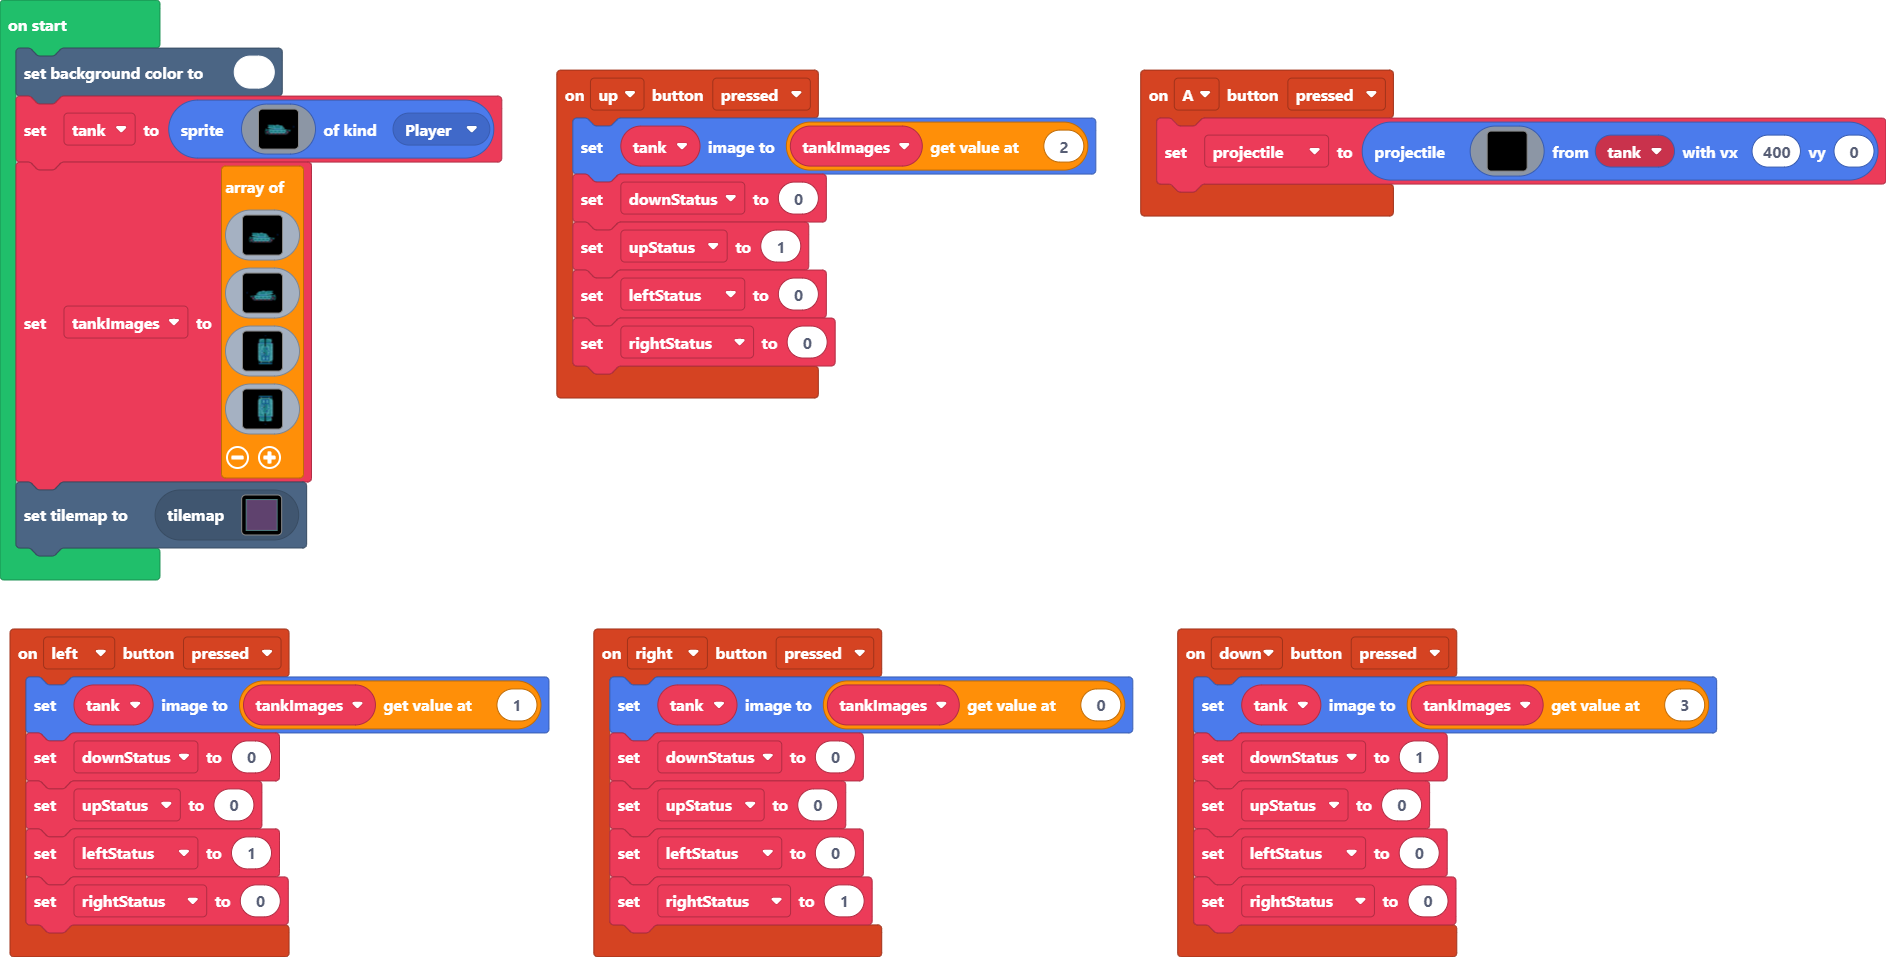
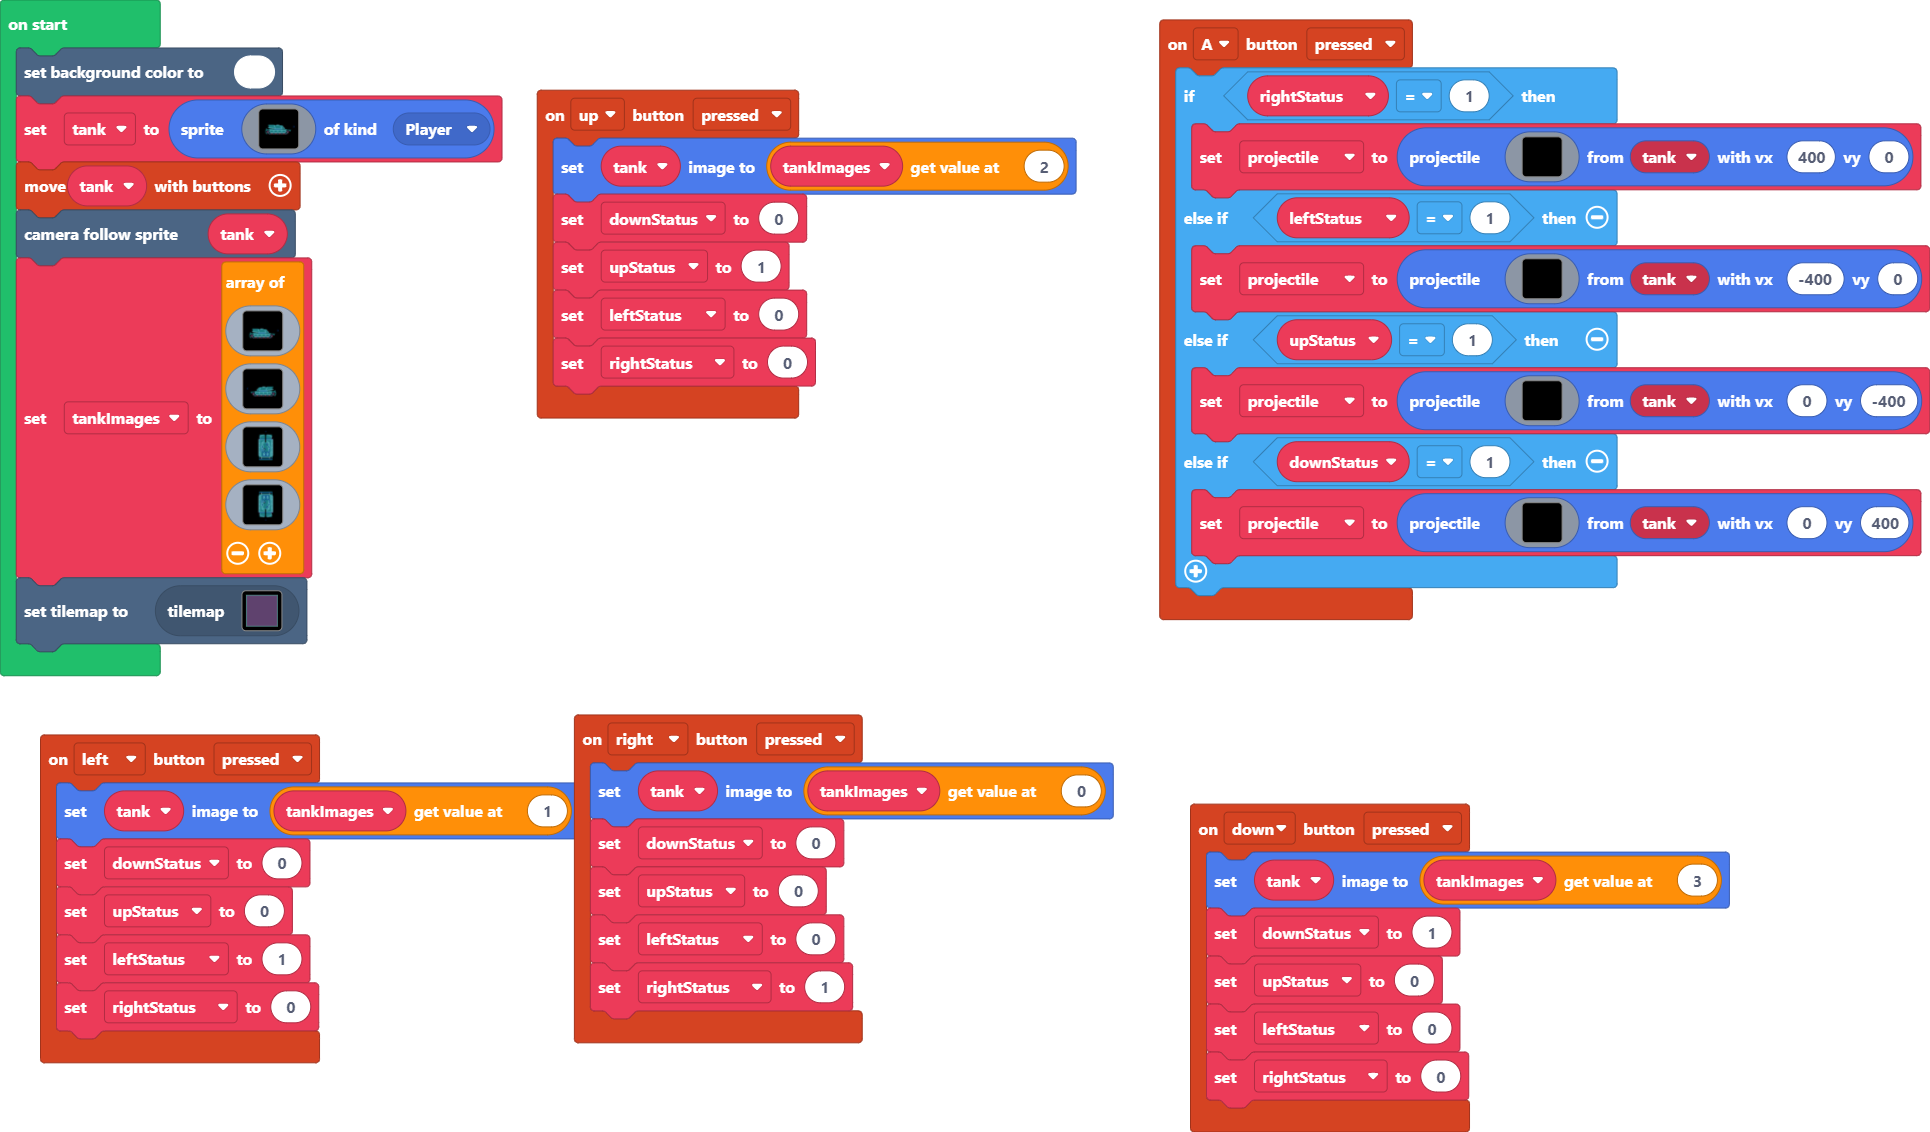
Update main.blocks, main.ts, tilemap.g.jres, tilemap.g.ts

diff --git a/main.ts b/main.ts
@@ -6,24 +6,83 @@ controller.up.onEvent(ControllerButtonEvent.Pressed, function () {
     rightStatus = 0
 })
 controller.A.onEvent(ControllerButtonEvent.Pressed, function () {
-    projectile = sprites.createProjectileFromSprite(img`
-        ................................................................
-        ................................................................
-        ................................................................
-        ................................................................
-        .....................................fffff......................
-        ................................................................
-        ................................................................
-        ................................................................
-        ................................................................
-        ................................................................
-        ................................................................
-        ................................................................
-        ................................................................
-        ................................................................
-        ................................................................
-        ................................................................
-        `, tank, 400, 0)
+    if (rightStatus == 1) {
+        projectile = sprites.createProjectileFromSprite(img`
+            ................................................................
+            ................................................................
+            ................................................................
+            ................................................................
+            ................................................................
+            ................................................................
+            ................................................................
+            ................................................................
+            .....................................fffff......................
+            ................................................................
+            ................................................................
+            ................................................................
+            ................................................................
+            ................................................................
+            ................................................................
+            ................................................................
+            `, tank, 400, 0)
+    } else if (leftStatus == 1) {
+        projectile = sprites.createProjectileFromSprite(img`
+            ................................................................
+            ................................................................
+            ................................................................
+            ................................................................
+            ................................................................
+            ................................................................
+            ................................................................
+            ................................................................
+            ....ffff........................................................
+            ................................................................
+            ................................................................
+            ................................................................
+            ................................................................
+            ................................................................
+            ................................................................
+            ................................................................
+            `, tank, -400, 0)
+    } else if (upStatus == 1) {
+        projectile = sprites.createProjectileFromSprite(img`
+            ......................................f.........................
+            ......................................f.........................
+            ......................................f.........................
+            ......................................f.........................
+            ................................................................
+            ................................................................
+            ................................................................
+            ................................................................
+            ................................................................
+            ................................................................
+            ................................................................
+            ................................................................
+            ................................................................
+            ................................................................
+            ................................................................
+            ................................................................
+            `, tank, 0, -400)
+    } else if (downStatus == 1) {
+        projectile = sprites.createProjectileFromSprite(img`
+            ................................................................
+            ................................................................
+            ................................................................
+            ................................................................
+            ................................................................
+            ................................................................
+            ................................................................
+            ................................................................
+            ................................................................
+            ................................................................
+            ................................................................
+            ................................................................
+            ......................................f.........................
+            ......................................f.........................
+            ......................................f.........................
+            ......................................f.........................
+            `, tank, 0, 400)
+    }
 })
 controller.left.onEvent(ControllerButtonEvent.Pressed, function () {
     tank.setImage(tankImages[1])
@@ -88,6 +147,8 @@ tank = sprites.create(img`
     ................................................................
     ................................................................
     `, SpriteKind.Player)
+controller.moveSprite(tank)
+scene.cameraFollowSprite(tank)
 tankImages = [
 img`
     ................................................................

diff --git a/tilemap.g.ts b/tilemap.g.ts
@@ -40,6 +40,82 @@ namespace myTiles {
 2..............................2
 22222222222222222222222222222222
 `, [myTiles.transparency16,sprites.dungeon.darkGroundNorthWest0,sprites.dungeon.greenOuterNorthWest,sprites.dungeon.greenOuterNorth0,sprites.dungeon.greenOuterEast0,sprites.dungeon.greenOuterNorthEast,sprites.dungeon.greenOuterSouthWest,sprites.dungeon.greenOuterSouthEast,sprites.dungeon.greenOuterSouth1,sprites.dungeon.greenOuterWest0,sprites.dungeon.darkGroundNorthEast0,sprites.dungeon.darkGroundSouthEast0,sprites.dungeon.darkGroundSouthWest0,sprites.dungeon.darkGroundSouth,sprites.dungeon.darkGroundWest,sprites.dungeon.darkGroundNorth,sprites.dungeon.darkGroundEast,sprites.dungeon.darkGroundCenter], TileScale.Sixteen);
+            case "level2":
+            case "level2":return tiles.createTilemap(hex`1000100000000000000000000000000000000000000000000000000000000000000000000000000000000000000000000000000000000000000000000000000000000000000000000000000000000000000000000000000000000000000000000000000000000000000000000000000000000000000000000000000000000000000000000000000000000000000000000000000000000000000000000000000000000000000000000000000000000000000000000000000000000000000000000000000000000000000000000000000000000000000000000000000000000000000000000000000000000000000000000000000000000000000000000000000000000000`, img`
+. . . . . . . . . . . . . . . . 
+. . . . . . . . . . . . . . . . 
+. . . . . . . . . . . . . . . . 
+. . . . . . . . . . . . . . . . 
+. . . . . . . . . . . . . . . . 
+. . . . . . . . . . . . . . . . 
+. . . . . . . . . . . . . . . . 
+. . . . . . . . . . . . . . . . 
+. . . . . . . . . . . . . . . . 
+. . . . . . . . . . . . . . . . 
+. . . . . . . . . . . . . . . . 
+. . . . . . . . . . . . . . . . 
+. . . . . . . . . . . . . . . . 
+. . . . . . . . . . . . . . . . 
+. . . . . . . . . . . . . . . . 
+. . . . . . . . . . . . . . . . 
+`, [myTiles.transparency16], TileScale.Sixteen);
+            case "level3":
+            case "level3":return tiles.createTilemap(hex`1000100000000000000000000000000000000000000000000000000000000000000000000000000000000000000000000000000000000000000000000000000000000000000000000000000000000000000000000000000000000000000000000000000000000000000000000000000000000000000000000000000000000000000000000000000000000000000000000000000000000000000000000000000000000000000000000000000000000000000000000000000000000000000000000000000000000000000000000000000000000000000000000000000000000000000000000000000000000000000000000000000000000000000000000000000000000000`, img`
+. . . . . . . . . . . . . . . . 
+. . . . . . . . . . . . . . . . 
+. . . . . . . . . . . . . . . . 
+. . . . . . . . . . . . . . . . 
+. . . . . . . . . . . . . . . . 
+. . . . . . . . . . . . . . . . 
+. . . . . . . . . . . . . . . . 
+. . . . . . . . . . . . . . . . 
+. . . . . . . . . . . . . . . . 
+. . . . . . . . . . . . . . . . 
+. . . . . . . . . . . . . . . . 
+. . . . . . . . . . . . . . . . 
+. . . . . . . . . . . . . . . . 
+. . . . . . . . . . . . . . . . 
+. . . . . . . . . . . . . . . . 
+. . . . . . . . . . . . . . . . 
+`, [myTiles.transparency16], TileScale.Sixteen);
+            case "level4":
+            case "level4":return tiles.createTilemap(hex`1000100000000000000000000000000000000000000000000000000000000000000000000000000000000000000000000000000000000000000000000000000000000000000000000000000000000000000000000000000000000000000000000000000000000000000000000000000000000000000000000000000000000000000000000000000000000000000000000000000000000000000000000000000000000000000000000000000000000000000000000000000000000000000000000000000000000000000000000000000000000000000000000000000000000000000000000000000000000000000000000000000000000000000000000000000000000000`, img`
+. . . . . . . . . . . . . . . . 
+. . . . . . . . . . . . . . . . 
+. . . . . . . . . . . . . . . . 
+. . . . . . . . . . . . . . . . 
+. . . . . . . . . . . . . . . . 
+. . . . . . . . . . . . . . . . 
+. . . . . . . . . . . . . . . . 
+. . . . . . . . . . . . . . . . 
+. . . . . . . . . . . . . . . . 
+. . . . . . . . . . . . . . . . 
+. . . . . . . . . . . . . . . . 
+. . . . . . . . . . . . . . . . 
+. . . . . . . . . . . . . . . . 
+. . . . . . . . . . . . . . . . 
+. . . . . . . . . . . . . . . . 
+. . . . . . . . . . . . . . . . 
+`, [myTiles.transparency16], TileScale.Sixteen);
+            case "level5":
+            case "level5":return tiles.createTilemap(hex`1000100000000000000000000000000000000000000000000000000000000000000000000000000000000000000000000000000000000000000000000000000000000000000000000000000000000000000000000000000000000000000000000000000000000000000000000000000000000000000000000000000000000000000000000000000000000000000000000000000000000000000000000000000000000000000000000000000000000000000000000000000000000000000000000000000000000000000000000000000000000000000000000000000000000000000000000000000000000000000000000000000000000000000000000000000000000000`, img`
+. . . . . . . . . . . . . . . . 
+. . . . . . . . . . . . . . . . 
+. . . . . . . . . . . . . . . . 
+. . . . . . . . . . . . . . . . 
+. . . . . . . . . . . . . . . . 
+. . . . . . . . . . . . . . . . 
+. . . . . . . . . . . . . . . . 
+. . . . . . . . . . . . . . . . 
+. . . . . . . . . . . . . . . . 
+. . . . . . . . . . . . . . . . 
+. . . . . . . . . . . . . . . . 
+. . . . . . . . . . . . . . . . 
+. . . . . . . . . . . . . . . . 
+. . . . . . . . . . . . . . . . 
+. . . . . . . . . . . . . . . . 
+. . . . . . . . . . . . . . . . 
+`, [myTiles.transparency16], TileScale.Sixteen);
         }
         return null;
     })
